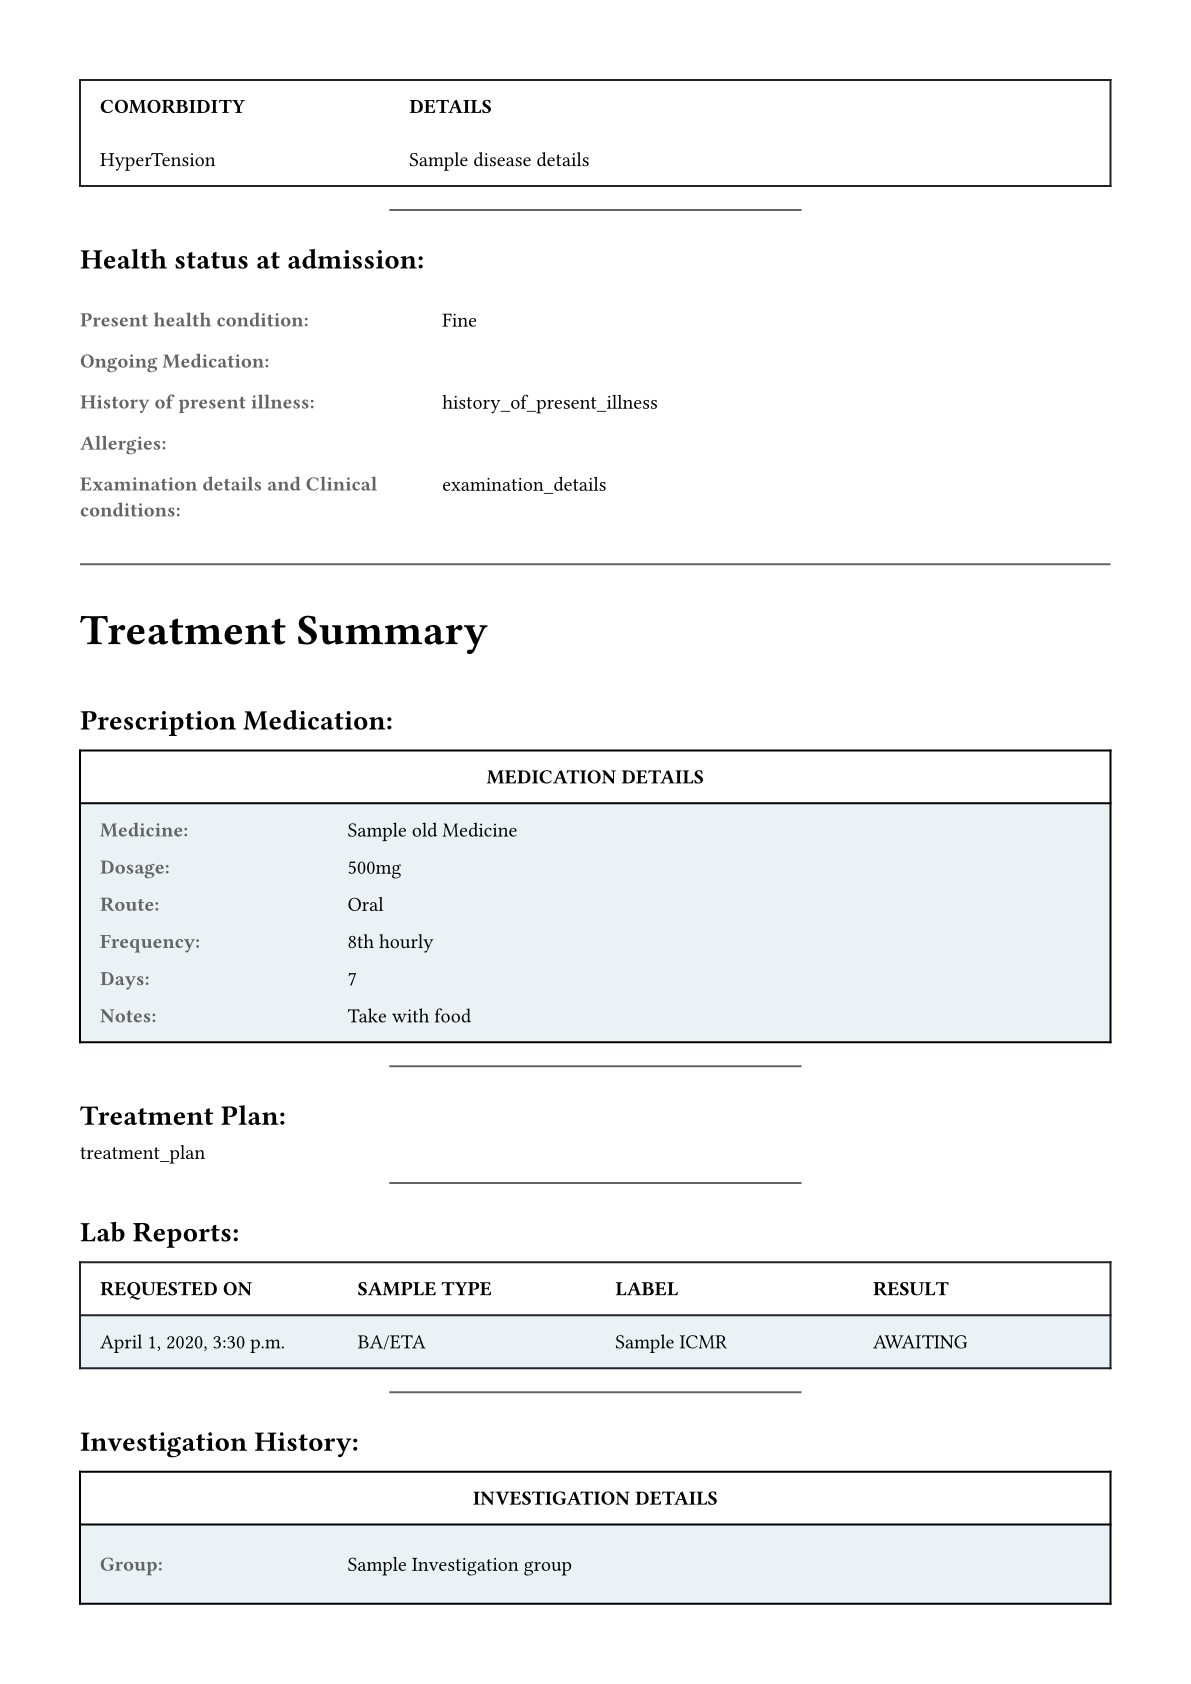
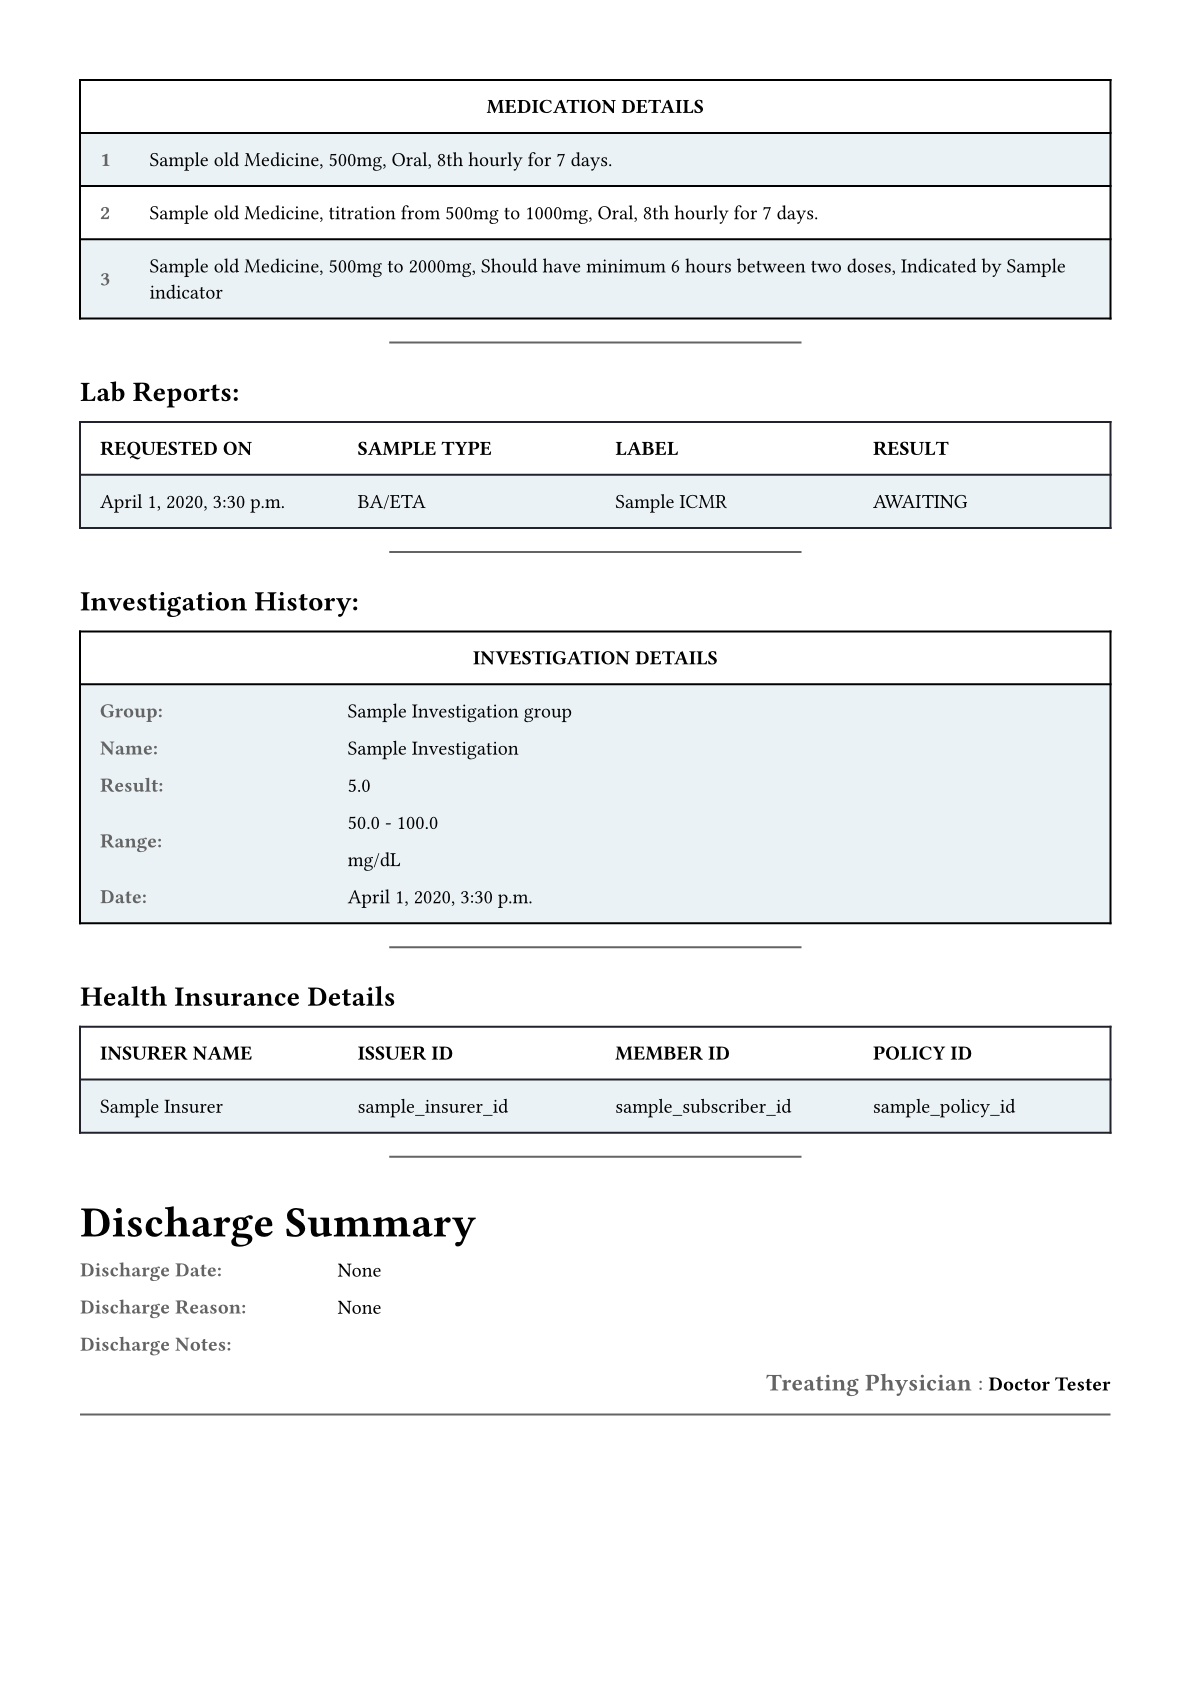
added test data

diff --git a/care/facility/tests/test_pdf_generation.py b/care/facility/tests/test_pdf_generation.py
@@ -10,6 +10,12 @@ from django.test import TestCase
 from PIL import Image
 from rest_framework.test import APIClient
 
+from care.facility.models import (
+    ConditionVerificationStatus,
+    ICD11Diagnosis,
+    PrescriptionDosageType,
+    PrescriptionType,
+)
 from care.facility.utils.reports import discharge_summary
 from care.facility.utils.reports.discharge_summary import compile_typ
 from care.utils.tests.test_utils import TestUtils
@@ -58,7 +64,7 @@ def test_compile_typ(data):
             check=True,
             cwd="/",
         )
-        for i in range(1, 4):
+        for i in range(1, 3):
             current_sample_file_path = sample_file_path
             current_sample_file_path = str(current_sample_file_path).replace(
                 "{n}", str(i)
@@ -112,11 +118,24 @@ class TestGenerateDischargeSummaryPDF(TestCase, TestUtils):
             cls.super_user, cls.district, cls.local_body, name="Sample Facility"
         )
         cls.user = cls.create_user("staff1", cls.district, home_facility=cls.facility)
+        cls.treating_physician = cls.create_user(
+            "test Doctor",
+            cls.district,
+            home_facility=cls.facility,
+            first_name="Doctor",
+            last_name="Tester",
+            user_type=15,
+        )
         cls.patient = cls.create_patient(
             cls.district, cls.facility, local_body=cls.local_body
         )
         cls.consultation = cls.create_consultation(
-            cls.patient, cls.facility, patient_no="123456"
+            cls.patient,
+            cls.facility,
+            patient_no="123456",
+            doctor=cls.treating_physician,
+            height=178,
+            weight=80,
         )
         cls.create_patient_sample(cls.patient, cls.consultation, cls.facility, cls.user)
         cls.create_policy(patient=cls.patient, user=cls.user)
@@ -136,9 +155,48 @@ class TestGenerateDischargeSummaryPDF(TestCase, TestUtils):
         )
         cls.create_disease(cls.patient)
         cls.create_prescription(cls.consultation, cls.user)
-        # Todo : add prn and prn prescriptions
-        # TODO : create few values with titration for prescription
-        # Todo  : Create diagnoses
+        cls.create_prescription(
+            cls.consultation, cls.user, dosage_type=PrescriptionDosageType.TITRATED
+        )
+        cls.create_prescription(
+            cls.consultation, cls.user, dosage_type=PrescriptionDosageType.PRN
+        )
+        cls.create_prescription(
+            cls.consultation, cls.user, prescription_type=PrescriptionType.DISCHARGE
+        )
+        cls.create_prescription(
+            cls.consultation,
+            cls.user,
+            prescription_type=PrescriptionType.DISCHARGE,
+            dosage_type=PrescriptionDosageType.TITRATED,
+        )
+        cls.create_prescription(
+            cls.consultation,
+            cls.user,
+            prescription_type=PrescriptionType.DISCHARGE,
+            dosage_type=PrescriptionDosageType.PRN,
+        )
+        cls.diagnoses = ICD11Diagnosis.objects.filter(is_leaf=True)[10:15]
+        cls.create_consultation_diagnosis(
+            cls.consultation,
+            cls.diagnoses[0],
+            verification_status=ConditionVerificationStatus.CONFIRMED,
+        )
+        cls.create_consultation_diagnosis(
+            cls.consultation,
+            cls.diagnoses[1],
+            verification_status=ConditionVerificationStatus.DIFFERENTIAL,
+        )
+        cls.create_consultation_diagnosis(
+            cls.consultation,
+            cls.diagnoses[2],
+            verification_status=ConditionVerificationStatus.PROVISIONAL,
+        )
+        cls.create_consultation_diagnosis(
+            cls.consultation,
+            cls.diagnoses[3],
+            verification_status=ConditionVerificationStatus.UNCONFIRMED,
+        )
 
     def setUp(self) -> None:
         self.client = APIClient()

diff --git a/care/utils/tests/test_utils.py b/care/utils/tests/test_utils.py
@@ -172,6 +172,8 @@ class TestUtils:
             username = f"user{now().timestamp()}"
 
         data = {
+            "first_name": "Foo",
+            "last_name": "Bar",
             "email": f"{username}@somedomain.com",
             "phone_number": "5554446667",
             "date_of_birth": date(1992, 4, 1),
